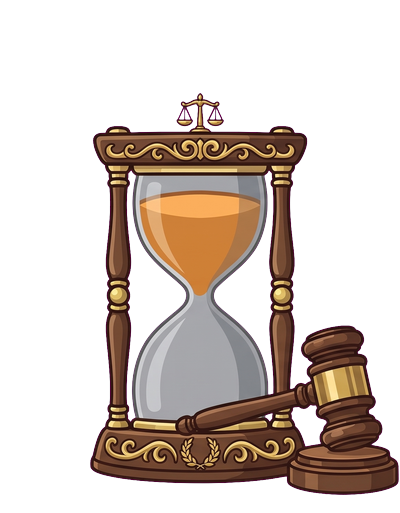
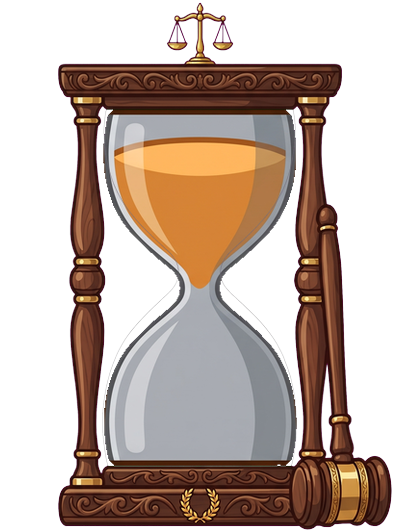
スキン8枚の絵を作り直す(ガラスと砂は原本、枠だけを描き起こして重ねる)
原本のガラスを緑の穴にした雛形をGemini 3.1 Proで編集させて枠だけを描き、tools/compose_skin_art.py が
穴の位置で原本へ合わせて3状態を合成する。ガラス玉の大きさ・砂の量が基本の絵と一致し、3状態の枠も揃う。
キャンバスは落下中の原本と同じ高さ532にし、盤面で基本の絵と同じ縮尺で出るようにした。

diff --git a/tools/compose_skin_art.py b/tools/compose_skin_art.py
@@ -1,0 +1,122 @@
+"""カードスキンの絵を、原本のガラスと砂に生成した枠を重ねて3状態ぶん作る(Architecture.md 10.19節)。
+
+  python tools/compose_skin_art.py template <out.png>
+      生成の入力にする雛形を書き出す。原本(上向き)のガラスの内側を緑一色の穴にし、背景をマゼンタにしたもの
+  python tools/compose_skin_art.py compose <generated.jpg> <skin_id>
+      雛形を元に描かせた絵(マゼンタ背景・緑の穴)から枠だけを抜き、穴の位置と大きさで原本へ合わせて
+      assets/hourglasses/skins/<skin_id>/state_{upright,falling,fallen}.png を書く
+
+ガラスと砂は原本そのものを使うため、どのスキンでもガラス玉の大きさ・位置・砂の量は基本の絵と一致し、
+枠は3状態で同一になる。キャンバスの高さは落下中の原本(532)に揃える——盤面は3状態で最も高い
+キャンバスを基準に縮めるため、高さが違うと基本の絵と縮尺がずれる。
+"""
+
+import os
+import sys
+
+import numpy as np
+from PIL import Image
+from scipy import ndimage
+
+MASTER = "assets/hourglasses/master"
+SKINS = "assets/hourglasses/skins"
+BASE_W = 400
+CANVAS_H = 532
+UPRIGHT_H = 513
+MARGIN = 2
+HOLE_GROW = 5  # ガラスの輪郭線まで穴に含める
+TEMPLATE_SCALE = 2
+STATES = [("full", "state_upright"), ("falling", "state_falling"), ("empty", "state_fallen")]
+
+
+def _glass(state):
+    region = np.asarray(Image.open(f"{MASTER}/region_state_{state}.png").convert("RGBA"))
+    return region[..., 2] > 127
+
+
+def write_template(out_path):
+    art = np.asarray(Image.open(f"{MASTER}/state_full.png").convert("RGBA")).astype(np.float32)
+    alpha = art[..., 3:4] / 255.0
+    magenta = np.array([255, 0, 255], np.float32)
+    rgb = (art[..., :3] * alpha + magenta * (1 - alpha)).astype(np.uint8)
+    rgb[ndimage.binary_dilation(_glass("full"), iterations=HOLE_GROW)] = (0, 255, 0)
+    img = Image.fromarray(rgb)
+    img.resize((img.width * TEMPLATE_SCALE, img.height * TEMPLATE_SCALE), Image.NEAREST).save(out_path)
+
+
+def _key(path):
+    """マゼンタの背景と緑の穴を透明にした枠の絵と、穴の外接矩形を返す。"""
+    a = np.asarray(Image.open(path).convert("RGB")).astype(np.float32)
+    r, g, b = a[..., 0], a[..., 1], a[..., 2]
+    mag = np.clip(((r + b) / 2 - g - 60) / 80, 0, 1) * np.clip((np.minimum(r, b) - 120) / 60, 0, 1)
+    hole = (g > 180) & (r < 140) & (b < 140)
+    lab, n = ndimage.label(hole)
+    hole = ndimage.binary_fill_holes(lab == 1 + np.argmax(ndimage.sum(hole, lab, range(1, n + 1))))
+    # 緑抜きは穴の周りだけに効かせる(緑の装飾を消さない)
+    grn = np.clip((g - np.maximum(r, b) - 60) / 80, 0, 1) * ndimage.binary_dilation(hole, iterations=8)
+    r2 = np.where(mag > 0, np.minimum(r, np.maximum(g, (r + g) / 2)), r)
+    b2 = np.where(mag > 0, np.minimum(b, np.maximum(g, (b + g) / 2)), b)
+    g2 = np.where(grn > 0, np.minimum(g, np.maximum(r2, b2)), g)
+    rgba = np.dstack([r2, g2, b2, (1 - mag) * (1 - grn) * 255]).clip(0, 255).astype(np.uint8)
+    ys, xs = np.where(hole)
+    return Image.fromarray(rgba), (xs.min(), xs.max() + 1, ys.min(), ys.max() + 1)
+
+
+def compose(gen_path, skin_id):
+    glass = _glass("full")
+    ys, xs = np.where(ndimage.binary_dilation(glass, iterations=HOLE_GROW))
+    mx0, mx1, my0, my1 = xs.min(), xs.max() + 1, ys.min(), ys.max() + 1
+    frame_src, (gx0, gx1, gy0, gy1) = _key(gen_path)
+    sx, sy = (mx1 - mx0) / (gx1 - gx0), (my1 - my0) / (gy1 - gy0)
+    frame_src = frame_src.resize((round(frame_src.width * sx), round(frame_src.height * sy)), Image.LANCZOS)
+    top_pad = CANVAS_H - UPRIGHT_H
+    ox, oy = mx0 - gx0 * sx, my0 - gy0 * sy + top_pad
+
+    opaque = np.asarray(frame_src)[..., 3] > 40
+    lab, n = ndimage.label(opaque)
+    sizes = ndimage.sum(opaque, lab, range(1, n + 1))
+    opaque = np.isin(lab, 1 + np.where(sizes >= sizes.max() * 0.002)[0])
+    yy, xx = np.where(opaque)
+    top, bot = yy.min() + oy, yy.max() + oy
+    # 下へはみ出す分は持ち上げ、それでも上下に収まらなければ全体を一様に縮める
+    lift = max(0, bot - (CANVAS_H - 1 - MARGIN))
+    fit = 1.0
+    if top - lift < MARGIN:
+        fit = min(1.0, (CANVAS_H - 1 - 2 * MARGIN) / (bot - top))
+    half = max(BASE_W / 2 - (xx.min() + ox), xx.max() + ox - BASE_W / 2)
+    canvas_w = max(BASE_W, int(np.ceil(half * fit + MARGIN)) * 2)
+    big_w = max(canvas_w, int(np.ceil(half + MARGIN)) * 2)
+    big_h = int(np.ceil(bot - top)) + 2 * MARGIN + 2
+    shift_x, shift_y = (big_w - BASE_W) / 2, MARGIN - top
+    frame = Image.new("RGBA", (big_w, big_h))
+    frame.paste(frame_src, (round(ox + shift_x), round(oy + shift_y)))
+
+    out_dir = f"{SKINS}/{skin_id}"
+    os.makedirs(out_dir, exist_ok=True)
+    gy, gx = np.where(glass)
+    for state, name in STATES:
+        src = np.asarray(Image.open(f"{MASTER}/state_{state}.png").convert("RGBA")).copy()
+        state_glass = _glass(state)
+        src[~ndimage.binary_dilation(state_glass, iterations=HOLE_GROW)] = 0
+        y2, x2 = np.where(state_glass)
+        dx = (gx.min() + gx.max()) / 2 - (x2.min() + x2.max()) / 2 + shift_x
+        dy = gy.max() - y2.max() + top_pad + shift_y
+        big = Image.new("RGBA", (big_w, big_h))
+        big.paste(Image.fromarray(src), (round(dx), round(dy)))
+        big.alpha_composite(frame)
+        big = big.resize((round(big_w * fit), round(big_h * fit)), Image.LANCZOS)
+        bottom = min(bot - lift, CANVAS_H - 1 - MARGIN)
+        py = max(round(bottom - (bot + shift_y) * fit), round(MARGIN - MARGIN * fit))
+        out = Image.new("RGBA", (canvas_w, CANVAS_H))
+        out.paste(big, (round((canvas_w - big_w * fit) / 2), py), big)
+        out.save(f"{out_dir}/{name}.png", optimize=True)
+    print(f"{skin_id}: canvas {canvas_w}x{CANVAS_H}, glass scale {fit:.3f}")
+
+
+if __name__ == "__main__":
+    if len(sys.argv) == 3 and sys.argv[1] == "template":
+        write_template(sys.argv[2])
+    elif len(sys.argv) == 4 and sys.argv[1] == "compose":
+        compose(sys.argv[2], sys.argv[3])
+    else:
+        sys.exit(__doc__)

diff --git a/docs/design/31_card_skins.md b/docs/design/31_card_skins.md
@@ -13,9 +13,8 @@
 
 - 対象のカード1枚のid、表示名、そのカードだけの固有イラスト(上向き / 落下中 /
   落ちきりの3状態)。**トークンと砂術は対象にしない**(絵を持たないため)
-- 絵は `docs/AssetPromptTemplate.md` の砂時計テンプレートに従って生成し、
-  **本体のガラス玉がキャンバス高さの70%を占める制約をそのまま守る**。スキンだけ
-  砂時計が大きく・小さく見えると、盤面で駒の大きさが揃わない
+- **本体のガラス玉は基本の絵と同じ大きさ・位置にする**。スキンだけ砂時計が大きく・小さく
+  見えると、盤面で駒の大きさが揃わない(作り方は「絵の用意」)
 - 3状態は必ず「上の砂が多い / 落下中 / 下の砂が多い」と読める形にする。
   絵を差し替えても、**砂の量というこの作品で最も重要な情報チャネル(9章)を潰さない**
 - **手札の絵の窓の光だまりの色(9章「手札」)は、スキンごとに1色持つ。**共通の絵の
@@ -73,10 +72,11 @@
 
 ## 絵の用意
 
-- スキンの絵は**固有イラストであり、色違いでは作らない**。生成はユーザーが
-  `docs/AssetPromptTemplate.md` のテンプレートで行い(`{{MOTIF}}` にそのスキンの
-  意匠を入れる)、透過処理までを手作業で済ませたうえで取り込む。1枚ずつクオリティを
-  保つことを優先し、**1度に多くを足す運用にはしない**(数枚ずつ)
+- スキンの絵は**固有イラストであり、色違いでは作らない**。ただし**固有なのは枠(と装飾)だけで、
+  ガラス玉と砂は基本の絵そのものを使う**。ガラス玉の大きさ・位置と3状態の砂の量が全スキンで
+  基本の絵と一致し、状態が変わっても枠が揺れない
+- 枠は、基本の絵のガラスを緑の穴にした雛形を画像生成AIに渡し、「穴はそのまま、木枠だけを差し替える」
+  形で描かせる。1枚ずつクオリティを保つことを優先し、**1度に多くを足す運用にはしない**(数枚ずつ)
 - **スキンは配布物(pck)を増やす。**基本の絵は1組で済んでいるが(9章)、スキンは1枚
   ごとに3状態の絵がpckへ入る。非可逆(WebP)で取り込んでも1枚あたり数十KBかかる
   ため、Web版の起動待ちを守るには**足す枚数に上限を意識する**(目安として当面は
